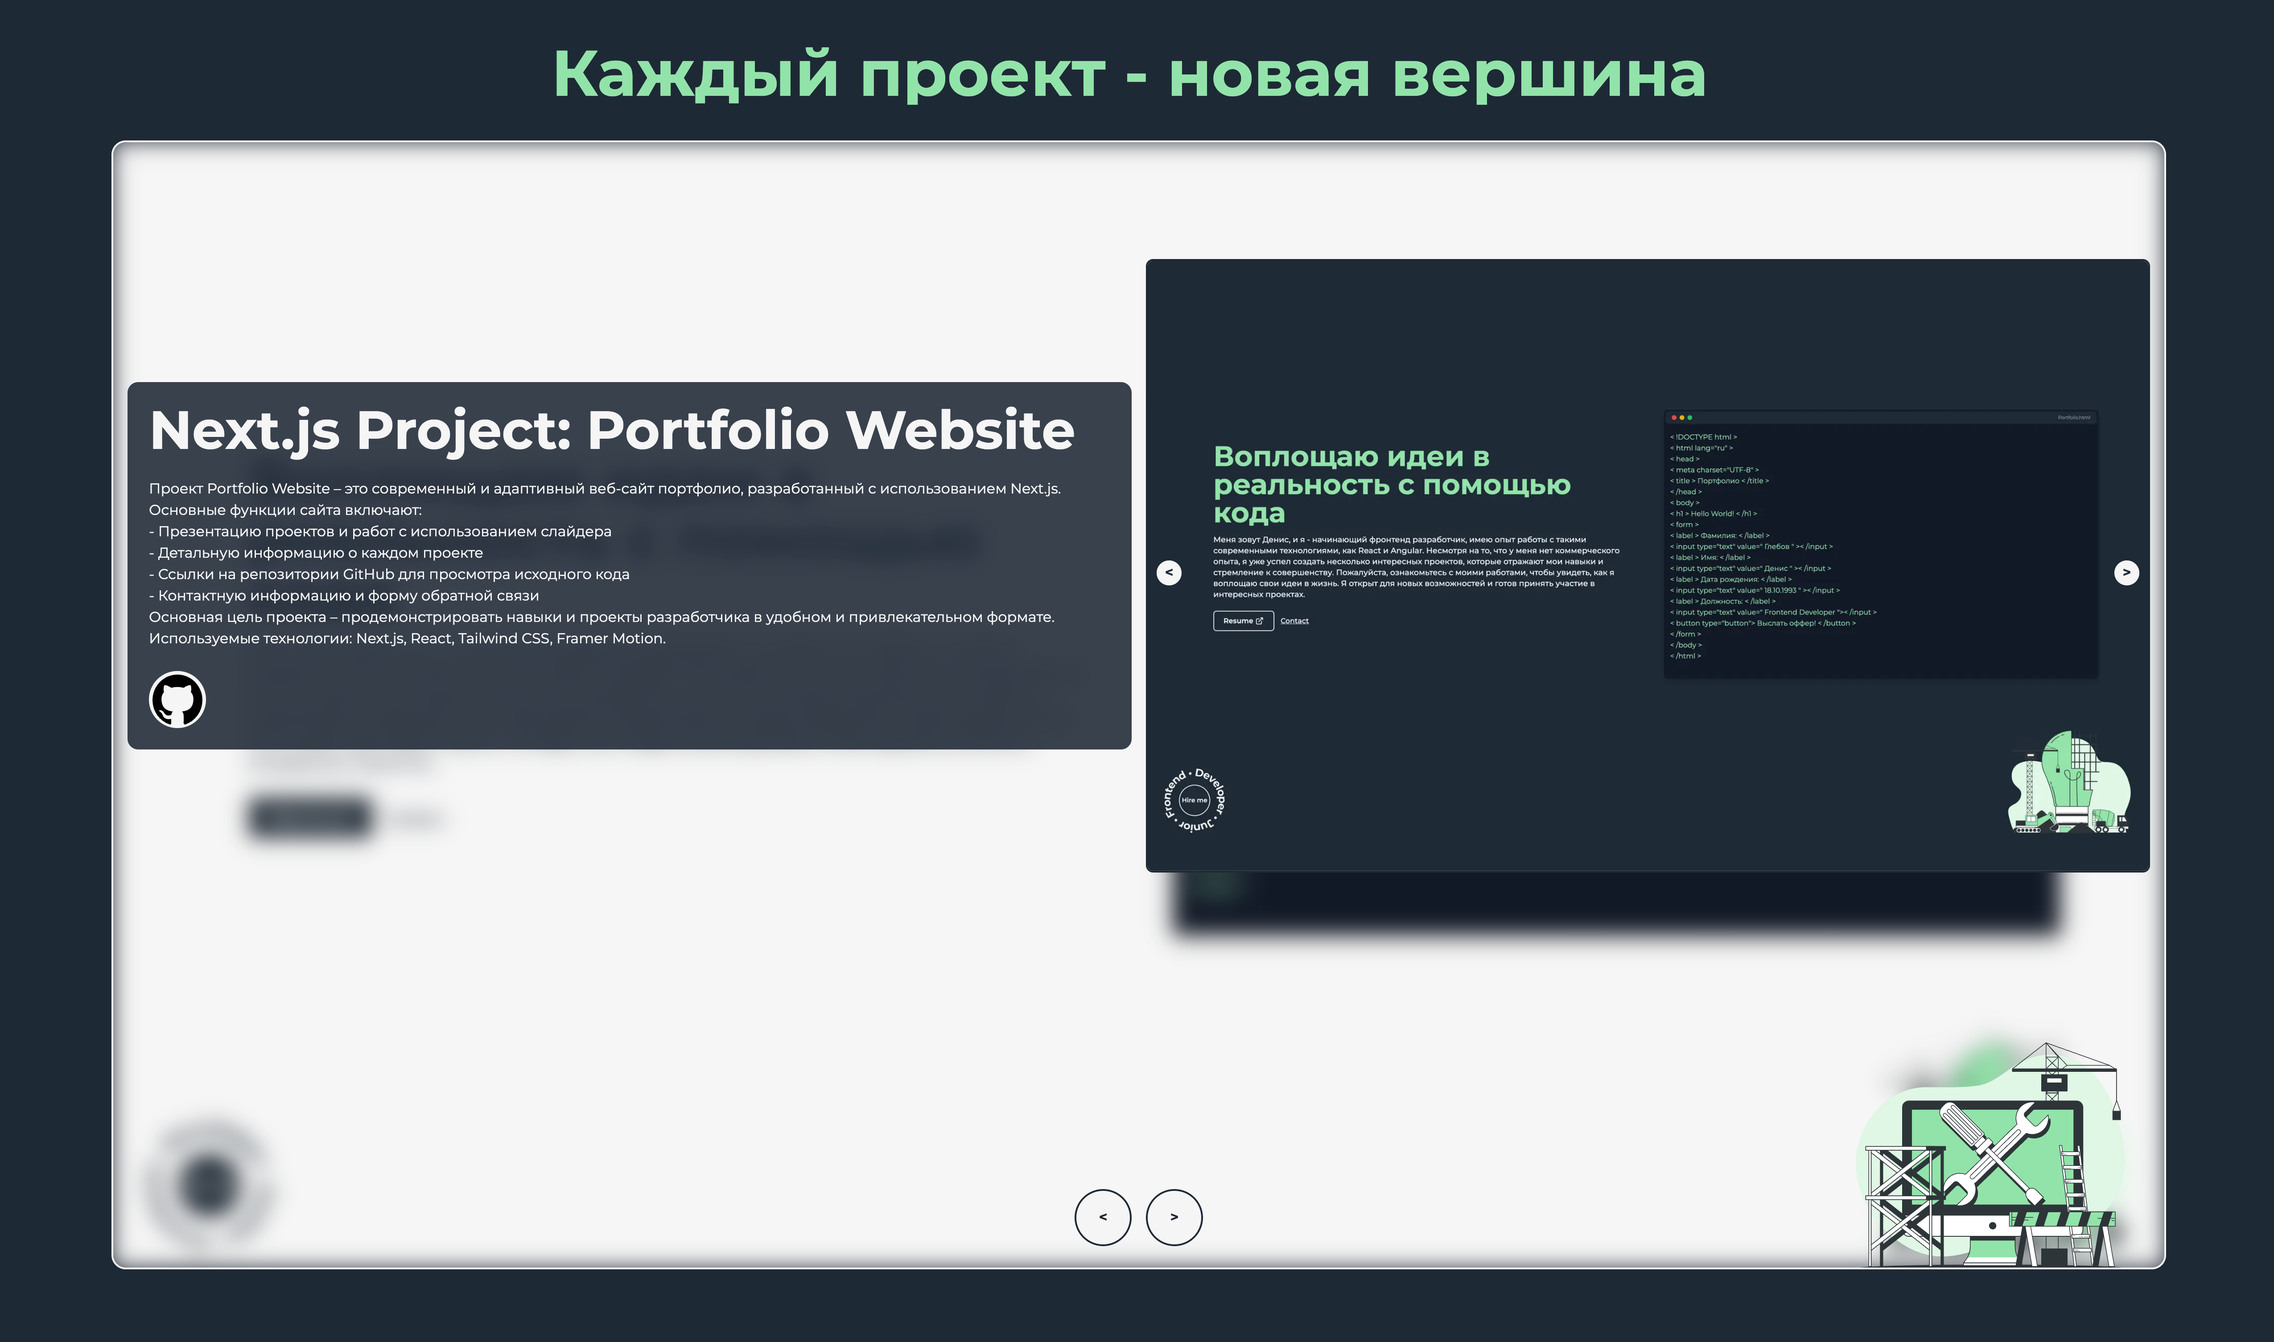
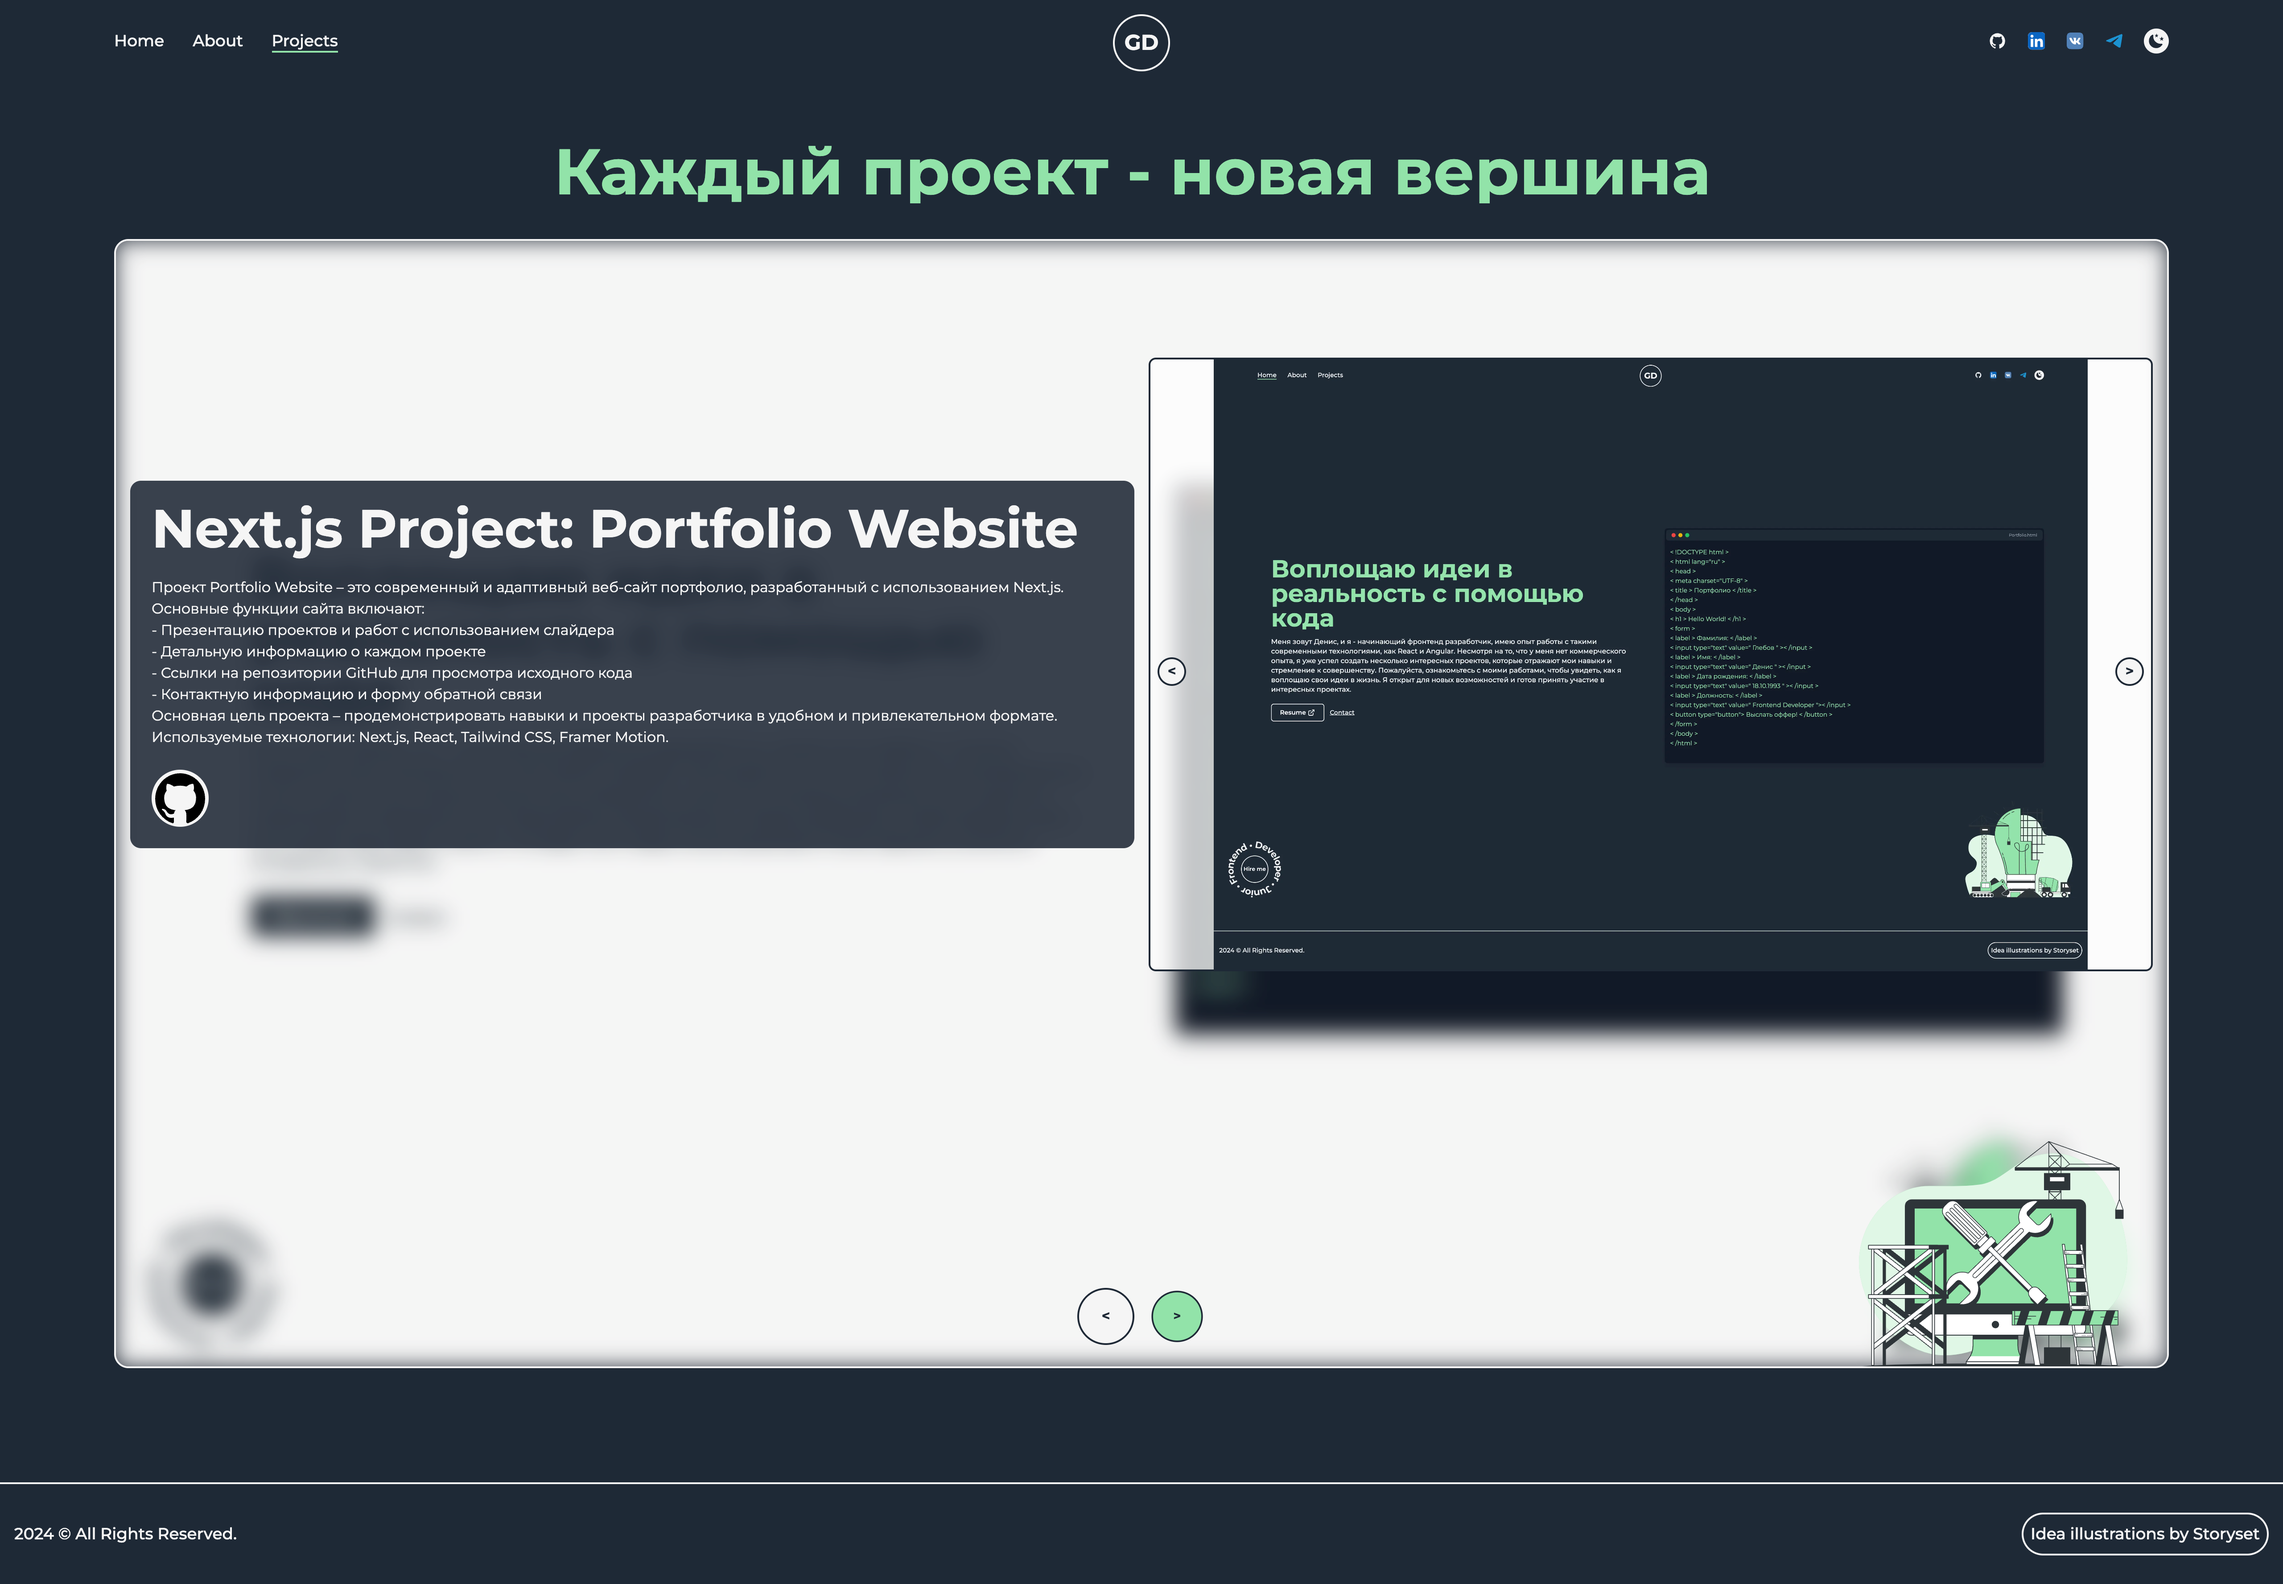
Закончил добавлять изображения и readme

Changed region(s): [[0.0312, 0.0312, 0.9976, 0.9993], [0.8729, 0.0, 0.9665, 0.0312]]

diff --git a/src/data/slides.js b/src/data/slides.js
@@ -6,11 +6,14 @@ import ReactImage from '../images/projects/React.png'
 import ReduxImage from '../images/projects/Redux.png'
 import AngularImage1 from '../images/projects/angular/image1.jpg'
 import AngularImage2 from '../images/projects/angular/image2.jpg'
-import NextImage2 from '../images/projects/next/About_1.png'
-import NextImage3 from '../images/projects/next/About_2.png'
-import NextImage5 from '../images/projects/next/About_mobile.png'
+import NextImage3 from '../images/projects/next/About.png'
+import NextImage5 from '../images/projects/next/About_desktop.png'
+import NextImage7 from '../images/projects/next/About_tablet.png'
 import NextImage1 from '../images/projects/next/Home.png'
-import NextImage4 from '../images/projects/next/Project_2.png'
+import NextImage2 from '../images/projects/next/Home_light.png'
+import NextImage6 from '../images/projects/next/Home_tablet.png'
+import NextImage4 from '../images/projects/next/Project.png'
+import NextImage8 from '../images/projects/next/Project_tablet.png'
 import ReactImage1 from '../images/projects/react/image1.jpg'
 import ReactImage2 from '../images/projects/react/image2.jpg'
 import ReduxImage1 from '../images/projects/redux/image1.jpg'
@@ -45,7 +48,16 @@ const slides = [
     `,
 		src: NextJSImage,
 		srcGit: 'https://github.com/',
-		images: [NextImage1, NextImage2, NextImage3, NextImage4, NextImage5],
+		images: [
+			NextImage1,
+			NextImage2,
+			NextImage3,
+			NextImage4,
+			NextImage5,
+			NextImage6,
+			NextImage7,
+			NextImage8,
+		],
 	},
 	{
 		id: 3,

diff --git a/README.md b/README.md
@@ -23,11 +23,15 @@
 
 ### Главная страница
 
-![Скриншот главной страницы](screenshots/main_page.png)
+![Скриншот главной страницы](../FrontendDeveloper/src/images/projects/next/Home.png)
 
-### Список проектов
+### Страница обо мне
 
-![Скриншот списка проектов](screenshots/projects_page.png)
+![Скриншот страницы обо мне](../FrontendDeveloper/src/images/projects/next/About.png)
+
+### Страница проектов
+
+![Скриншот страницы списка проектов](../FrontendDeveloper/src/images/projects/next/Project.png)
 
 ## Установка и запуск
 
